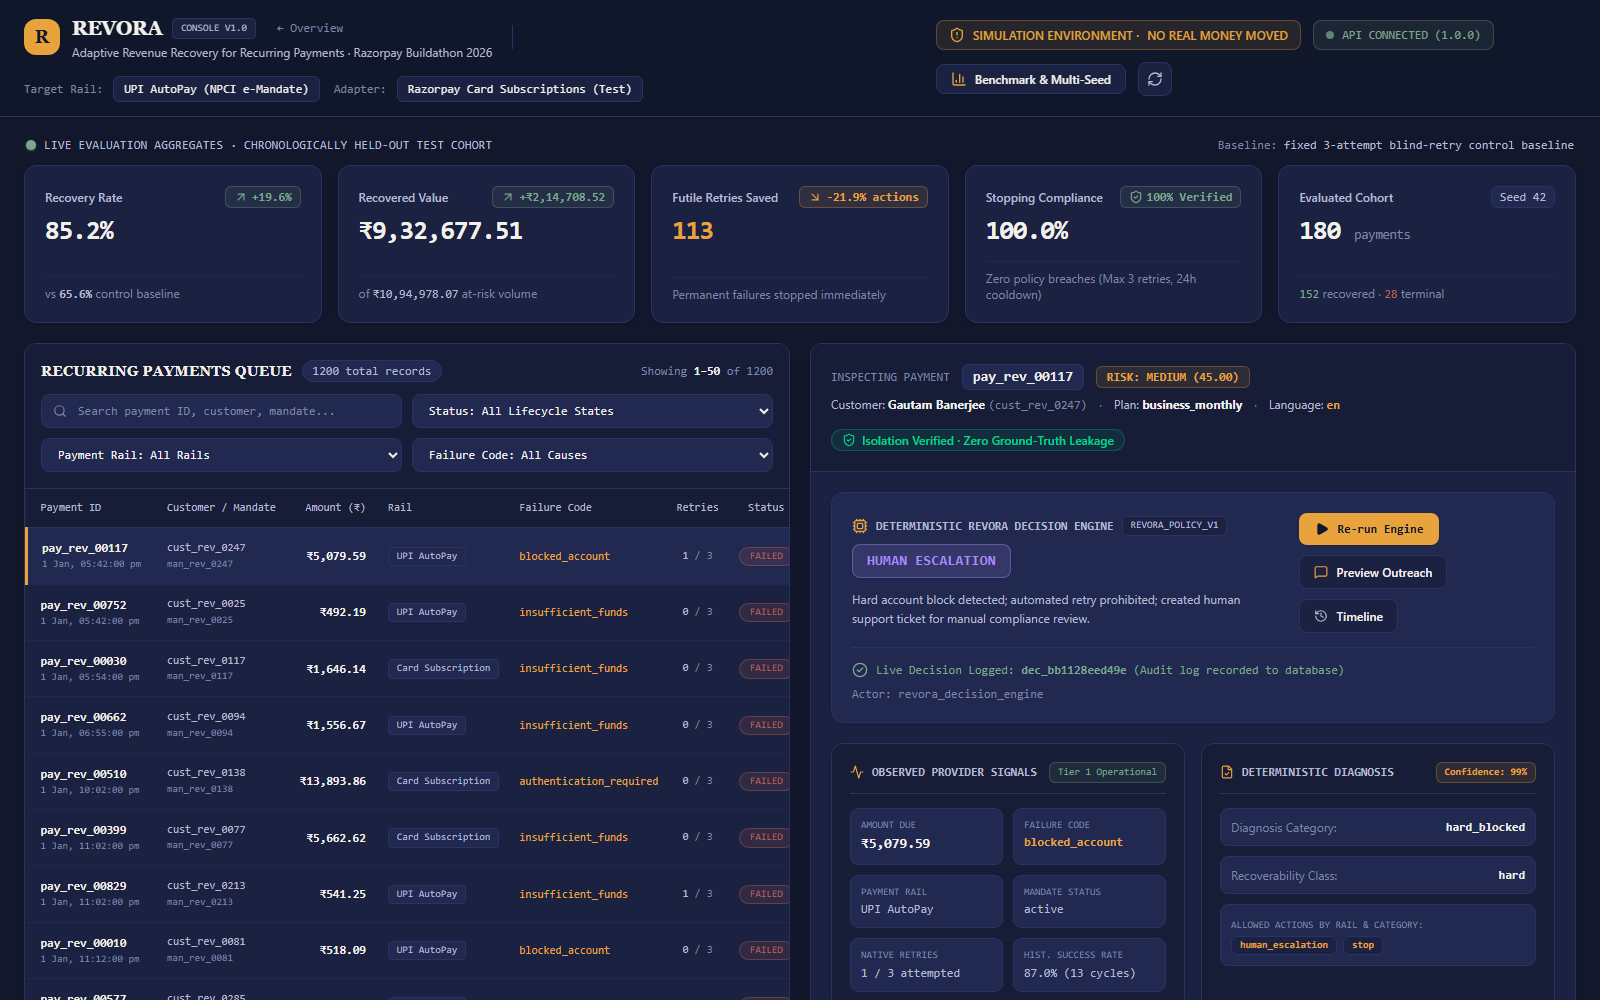
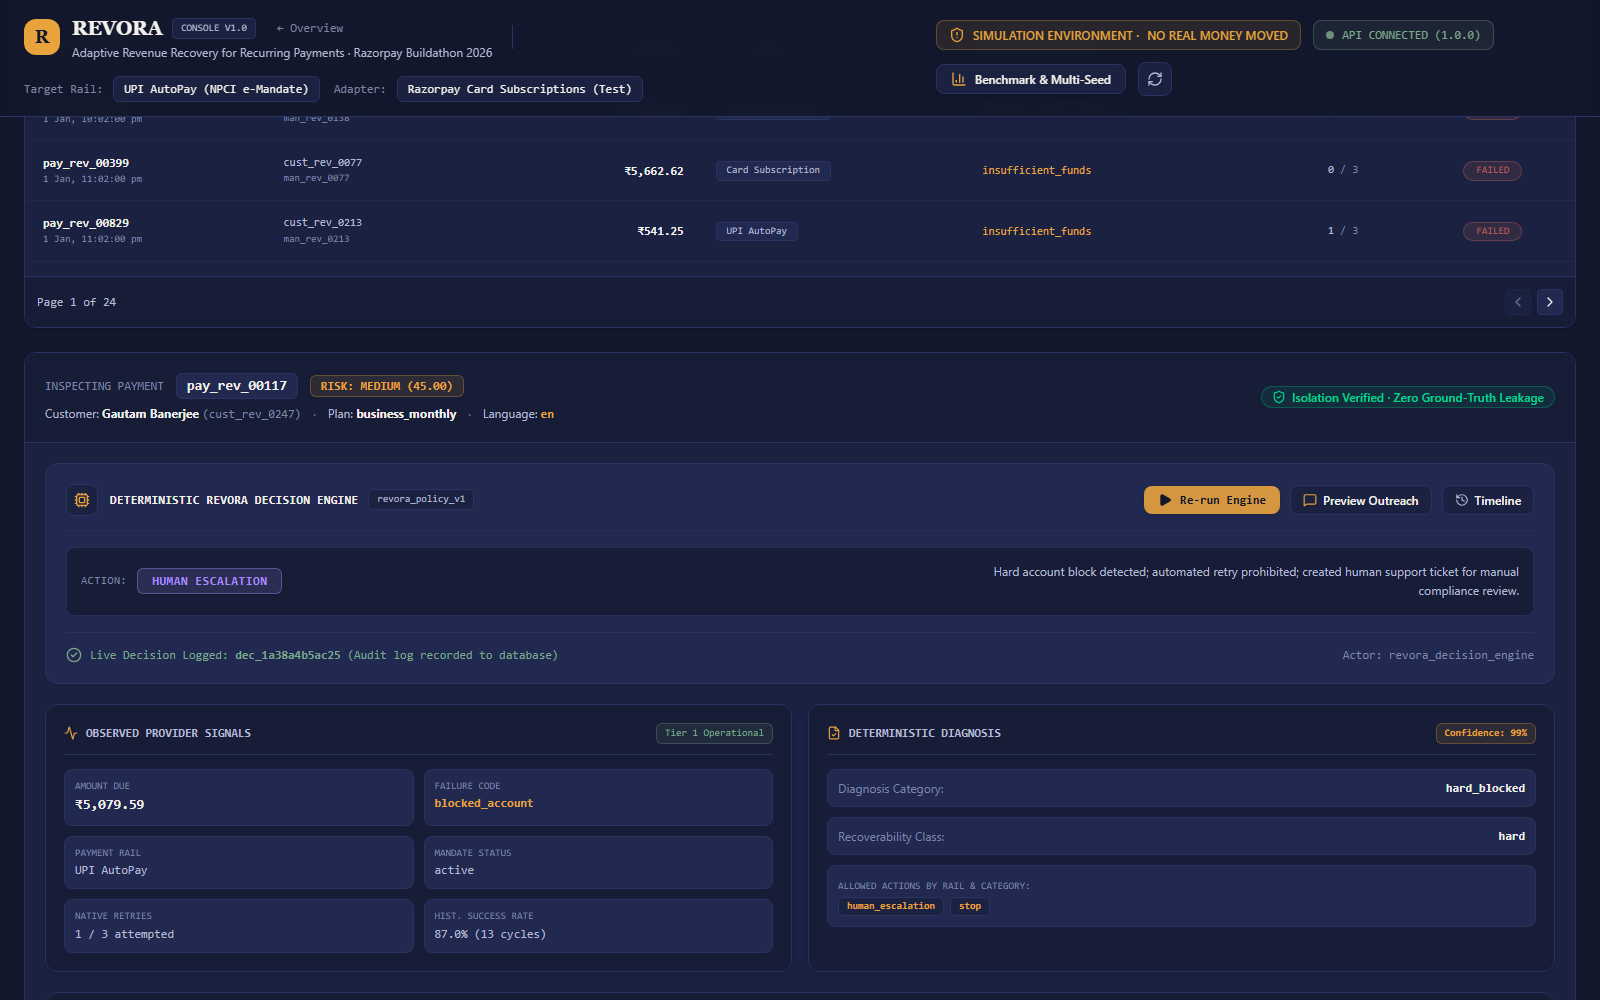
style(console): expand payment queue table to full-width workstation view

diff --git a/frontend/src/components/PaymentQueue.tsx b/frontend/src/components/PaymentQueue.tsx
@@ -73,8 +73,8 @@ export const PaymentQueue: React.FC<PaymentQueueProps> = ({
           </div>
         </div>
 
-        {/* Filter Toolbar: Spacious 2-column ergonomic layout */}
-        <div className="grid grid-cols-1 sm:grid-cols-2 gap-2.5">
+        {/* Filter Toolbar: Full-width 4-column layout */}
+        <div className="grid grid-cols-1 sm:grid-cols-2 lg:grid-cols-4 gap-3">
           {/* Instant Search */}
           <div className="relative">
             <Search className="w-3.5 h-3.5 absolute left-3 top-1/2 -translate-y-1/2 text-[#7E85A6]" />
@@ -129,7 +129,7 @@ export const PaymentQueue: React.FC<PaymentQueueProps> = ({
       </div>
 
       {/* Table Content */}
-      <div className="flex-1 overflow-x-auto overflow-y-auto min-h-[420px]">
+      <div className="flex-1 overflow-x-auto overflow-y-auto max-h-[480px]">
         {isLoading ? (
           <div className="p-12 text-center space-y-3">
             <RefreshCw className="w-7 h-7 text-[#E8A33D] animate-spin mx-auto" />
@@ -158,13 +158,13 @@ export const PaymentQueue: React.FC<PaymentQueueProps> = ({
           <table className="w-full text-left text-xs border-collapse">
             <thead className="bg-[#171D36] text-[#B4B9D2] font-mono text-[11px] sticky top-0 border-b border-[#2A3362] z-10">
               <tr>
-                <th className="py-3 px-3.5 font-medium whitespace-nowrap">Payment ID</th>
-                <th className="py-3 px-3 font-medium whitespace-nowrap">Customer / Mandate</th>
-                <th className="py-3 px-3 font-medium text-right whitespace-nowrap">Amount (₹)</th>
-                <th className="py-3 px-2.5 font-medium whitespace-nowrap">Rail</th>
-                <th className="py-3 px-2.5 font-medium whitespace-nowrap">Failure Code</th>
-                <th className="py-3 px-2 font-medium text-center whitespace-nowrap">Retries</th>
-                <th className="py-3 px-3 font-medium text-center whitespace-nowrap">Status</th>
+                <th className="py-3.5 px-4 font-medium whitespace-nowrap">Payment ID</th>
+                <th className="py-3.5 px-4 font-medium whitespace-nowrap">Customer / Mandate</th>
+                <th className="py-3.5 px-4 font-medium text-right whitespace-nowrap">Amount (₹)</th>
+                <th className="py-3.5 px-4 font-medium whitespace-nowrap">Rail</th>
+                <th className="py-3.5 px-4 font-medium whitespace-nowrap">Failure Code</th>
+                <th className="py-3.5 px-4 font-medium text-center whitespace-nowrap">Retries</th>
+                <th className="py-3.5 px-4 font-medium text-center whitespace-nowrap">Status</th>
               </tr>
             </thead>
             <tbody className="divide-y divide-[#222950]">
@@ -178,12 +178,12 @@ export const PaymentQueue: React.FC<PaymentQueueProps> = ({
                     onClick={() => onSelectPayment(payment.payment_id)}
                     className={`cursor-pointer transition-colors ${
                       isSelected
-                        ? "bg-[#222950] border-l-3 border-l-[#E8A33D]"
+                        ? "bg-[#222950] border-l-4 border-l-[#E8A33D]"
                         : "hover:bg-[#1E2548]"
                     }`}
                   >
                     {/* Payment ID & Timestamp */}
-                    <td className="py-3 px-3.5 font-mono whitespace-nowrap">
+                    <td className="py-3.5 px-4 font-mono whitespace-nowrap">
                       <div className="font-semibold text-[#F2F0EA]">
                         {payment.payment_id}
                       </div>
@@ -193,7 +193,7 @@ export const PaymentQueue: React.FC<PaymentQueueProps> = ({
                     </td>
 
                     {/* Customer & Mandate */}
-                    <td className="py-3 px-3 font-mono whitespace-nowrap">
+                    <td className="py-3.5 px-4 font-mono whitespace-nowrap">
                       <div className="text-[#B4B9D2] text-[11px]">
                         {payment.customer_id}
                       </div>
@@ -203,19 +203,19 @@ export const PaymentQueue: React.FC<PaymentQueueProps> = ({
                     </td>
 
                     {/* Amount */}
-                    <td className="py-3 px-3 text-right font-mono font-bold text-[#F2F0EA] tabular-nums whitespace-nowrap">
+                    <td className="py-3.5 px-4 text-right font-mono font-bold text-[#F2F0EA] tabular-nums whitespace-nowrap">
                       {formatINR(payment.amount)}
                     </td>
 
                     {/* Rail */}
-                    <td className="py-3 px-2.5 whitespace-nowrap">
-                      <span className="inline-block px-2 py-0.5 rounded text-[10px] font-mono bg-[#222950] text-[#B4B9D2] border border-[#2A3362]">
+                    <td className="py-3.5 px-4 whitespace-nowrap">
+                      <span className="inline-block px-2.5 py-0.5 rounded text-[10px] font-mono bg-[#222950] text-[#B4B9D2] border border-[#2A3362]">
                         {getRailLabel(payment.payment_rail)}
                       </span>
                     </td>
 
                     {/* Failure Code */}
-                    <td className="py-3 px-2.5 font-mono whitespace-nowrap">
+                    <td className="py-3.5 px-4 font-mono whitespace-nowrap">
                       {payment.failure_code ? (
                         <span className="text-[#E8A33D] text-[11px]">
                           {payment.failure_code}
@@ -226,7 +226,7 @@ export const PaymentQueue: React.FC<PaymentQueueProps> = ({
                     </td>
 
                     {/* Retries */}
-                    <td className="py-3 px-2 text-center font-mono text-[11px] text-[#B4B9D2] whitespace-nowrap">
+                    <td className="py-3.5 px-4 text-center font-mono text-[11px] text-[#B4B9D2] whitespace-nowrap">
                       <span className={payment.native_retry_attempt >= 3 ? "text-[#B5615A] font-bold" : ""}>
                         {payment.native_retry_attempt}
                       </span>
@@ -234,8 +234,8 @@ export const PaymentQueue: React.FC<PaymentQueueProps> = ({
                     </td>
 
                     {/* Status */}
-                    <td className="py-3 px-3 text-center whitespace-nowrap">
-                      <span className={`inline-block px-2.5 py-0.5 rounded-full text-[10px] font-mono font-medium ${statusBadge.className}`}>
+                    <td className="py-3.5 px-4 text-center whitespace-nowrap">
+                      <span className={`inline-block px-3 py-0.5 rounded-full text-[10px] font-mono font-medium ${statusBadge.className}`}>
                         {statusBadge.label}
                       </span>
                     </td>

diff --git a/frontend/src/components/DecisionInspector.tsx b/frontend/src/components/DecisionInspector.tsx
@@ -106,43 +106,39 @@ export const DecisionInspector: React.FC<DecisionInspectorProps> = ({
       {/* Main Inspection Body */}
       <div className="flex-1 overflow-y-auto p-5 space-y-5">
         {/* Row 1: Decision Banner & Execution Controls */}
-        <div className="p-5 rounded-xl bg-[#222950] border border-[#2A3362] relative overflow-hidden shadow-sm">
-          <div className="flex flex-col xl:flex-row xl:items-center justify-between gap-4">
-            <div className="space-y-2">
-              <div className="flex items-center gap-2 text-xs font-mono text-[#7E85A6] uppercase">
-                <Cpu className="w-4 h-4 text-[#E8A33D]" />
-                <span className="font-semibold text-[#B4B9D2]">Deterministic Revora Decision Engine</span>
-                <span className="text-[10px] px-2 py-0.5 rounded-md bg-[#1B2140] text-[#B4B9D2] border border-[#2A3362]">
-                  {lastDecisionResult?.policy_version || "revora_policy_v1"}
-                </span>
+        <div className="p-5 rounded-xl bg-[#222950] border border-[#2A3362] relative overflow-hidden shadow-sm space-y-4">
+          {/* Top Row: Engine Identity & Operator Action Buttons */}
+          <div className="flex flex-col lg:flex-row lg:items-center justify-between gap-3.5 pb-3.5 border-b border-[#2A3362]/70">
+            <div className="flex items-center gap-3">
+              <div className="w-8 h-8 rounded-lg bg-[#1B2140] border border-[#2A3362] text-[#E8A33D] flex items-center justify-center flex-shrink-0">
+                <Cpu className="w-4 h-4" />
               </div>
-
-              <div className="flex flex-wrap items-center gap-3">
-                <span className={`px-3.5 py-1.5 rounded-lg text-sm font-mono font-bold tracking-wide shadow-sm ${actionBadge.className}`}>
-                  {actionBadge.label}
+              <div className="flex flex-wrap items-center gap-2 sm:gap-2.5">
+                <span className="font-semibold text-xs font-mono text-[#F2F0EA] tracking-wide uppercase whitespace-nowrap">
+                  Deterministic Revora Decision Engine
                 </span>
-                <span className="text-xs text-[#B4B9D2] max-w-xl leading-relaxed">
-                  {lastDecisionResult?.decision_reason || latest_action?.decision_reason || "Deterministic policy evaluation ready."}
+                <span className="text-[10px] font-mono px-2 py-0.5 rounded-md bg-[#1B2140] text-[#B4B9D2] border border-[#2A3362] whitespace-nowrap">
+                  {lastDecisionResult?.policy_version || "REVORA_POLICY_V1"}
                 </span>
               </div>
             </div>
 
-            {/* Operator Actions */}
-            <div className="flex flex-wrap items-center gap-2.5 pt-2 xl:pt-0">
+            {/* Operator Actions in a clean, unified button group */}
+            <div className="flex items-center gap-2.5 flex-wrap sm:flex-nowrap">
               <button
                 data-testid="rerun-decision-btn"
                 onClick={onRerunDecision}
                 disabled={isExecutingDecision}
-                className="inline-flex items-center gap-2 px-4 py-2 rounded-lg text-xs font-semibold bg-[#E8A33D] hover:bg-[#E8A33D]/90 text-[#12172B] shadow-sm transition-all disabled:opacity-50 font-mono cursor-pointer"
+                className="inline-flex items-center gap-2 px-3.5 py-1.5 rounded-lg text-xs font-semibold bg-[#E8A33D] hover:bg-[#E8A33D]/90 text-[#12172B] shadow-sm transition-all disabled:opacity-50 font-mono cursor-pointer whitespace-nowrap flex-shrink-0"
               >
                 <Play className={`w-3.5 h-3.5 fill-current ${isExecutingDecision ? "animate-spin" : ""}`} />
-                <span>{isExecutingDecision ? "Executing Policy..." : "Re-run Engine"}</span>
+                <span>{isExecutingDecision ? "Executing..." : "Re-run Engine"}</span>
               </button>
 
               <button
                 data-testid="preview-outreach-btn"
                 onClick={onOpenOutreach}
-                className="inline-flex items-center gap-2 px-3.5 py-2 rounded-lg text-xs font-medium bg-[#1B2140] hover:bg-[#28315E] text-[#F2F0EA] border border-[#2A3362] transition-colors cursor-pointer"
+                className="inline-flex items-center gap-1.5 px-3 py-1.5 rounded-lg text-xs font-medium bg-[#1B2140] hover:bg-[#28315E] text-[#F2F0EA] border border-[#2A3362] transition-colors cursor-pointer whitespace-nowrap flex-shrink-0"
               >
                 <MessageSquare className="w-3.5 h-3.5 text-[#E8A33D]" />
                 <span>Preview Outreach</span>
@@ -151,11 +147,26 @@ export const DecisionInspector: React.FC<DecisionInspectorProps> = ({
               <button
                 data-testid="timeline-btn"
                 onClick={onOpenTimeline}
-                className="inline-flex items-center gap-2 px-3.5 py-2 rounded-lg text-xs font-medium bg-[#1B2140] hover:bg-[#28315E] text-[#F2F0EA] border border-[#2A3362] transition-colors cursor-pointer"
+                className="inline-flex items-center gap-1.5 px-3 py-1.5 rounded-lg text-xs font-medium bg-[#1B2140] hover:bg-[#28315E] text-[#F2F0EA] border border-[#2A3362] transition-colors cursor-pointer whitespace-nowrap flex-shrink-0"
               >
                 <History className="w-3.5 h-3.5 text-[#B4B9D2]" />
                 <span>Timeline</span>
               </button>
+            </div>
+          </div>
+
+          {/* Dedicated Decision Callout Strip */}
+          <div className="flex flex-col sm:flex-row sm:items-center justify-between gap-3.5 bg-[#171D36] p-3.5 rounded-lg border border-[#2A3362]/80">
+            <div className="flex items-center gap-2.5">
+              <span className="text-[11px] font-mono text-[#7E85A6] uppercase tracking-wider whitespace-nowrap">
+                Action:
+              </span>
+              <span className={`inline-block px-3.5 py-1 rounded-md text-xs font-mono font-bold tracking-wider uppercase shadow-sm whitespace-nowrap ${actionBadge.className}`}>
+                {actionBadge.label}
+              </span>
+            </div>
+            <div className="text-xs text-[#B4B9D2] leading-relaxed sm:text-right flex-1 sm:max-w-xl">
+              {lastDecisionResult?.decision_reason || latest_action?.decision_reason || "Deterministic policy evaluation ready."}
             </div>
           </div>
 

diff --git a/frontend/src/app/console/page.tsx b/frontend/src/app/console/page.tsx
@@ -198,10 +198,10 @@ export default function OperatorConsolePage() {
           onRetry={fetchMetrics}
         />
 
-        {/* 2-Column Balanced Ergonomic Workstation Layout */}
-        <section aria-label="Payment Operations Console" className="flex-1 grid grid-cols-1 xl:grid-cols-12 gap-5 min-h-[620px]">
-          {/* Left Column: At-Risk Payments Queue (6 cols on xl for roomy table) */}
-          <div className="xl:col-span-6 h-full min-h-[540px]">
+        {/* Full-Length Payment Operations Console Workspace */}
+        <section aria-label="Payment Operations Console" className="flex-1 flex flex-col gap-6 w-full">
+          {/* Full-Length Recurring Payments Queue Table */}
+          <div className="w-full">
             <PaymentQueue
               data={paymentsData}
               isLoading={isLoadingPayments}
@@ -217,8 +217,8 @@ export default function OperatorConsolePage() {
             />
           </div>
 
-          {/* Right Column: Signal & Decision Inspector (6 cols on xl) */}
-          <div className="xl:col-span-6 h-full min-h-[540px]">
+          {/* Signal & Decision Inspector */}
+          <div className="w-full">
             <DecisionInspector
               paymentDetail={paymentDetail}
               isLoading={isLoadingDetail}
